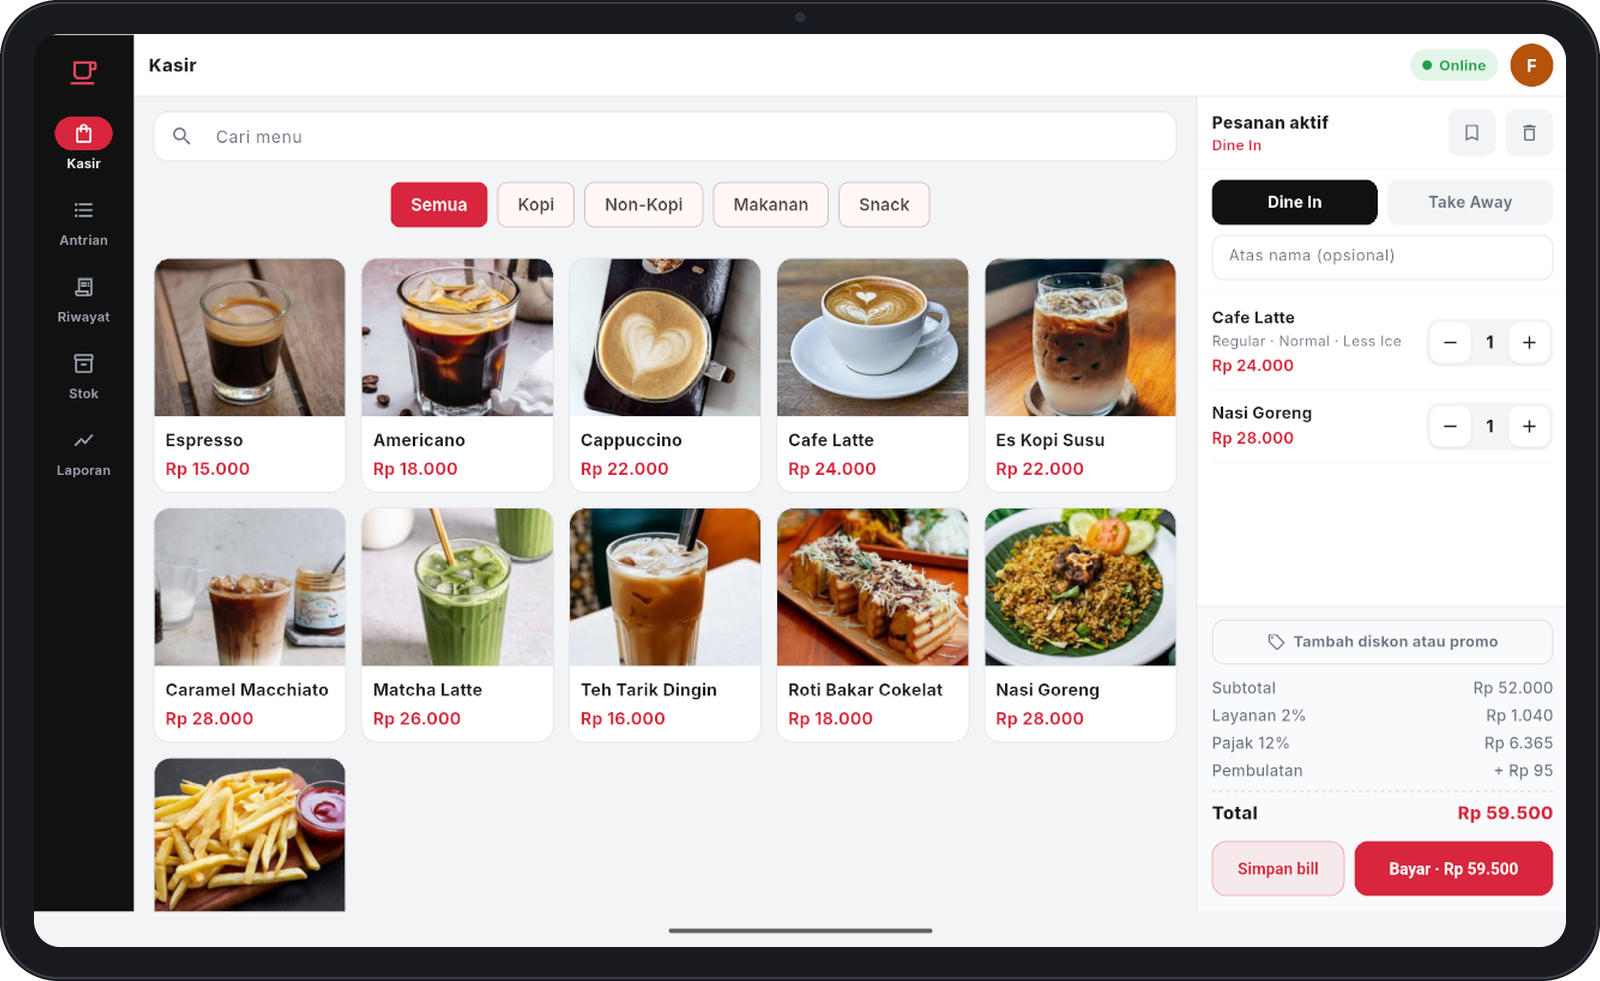
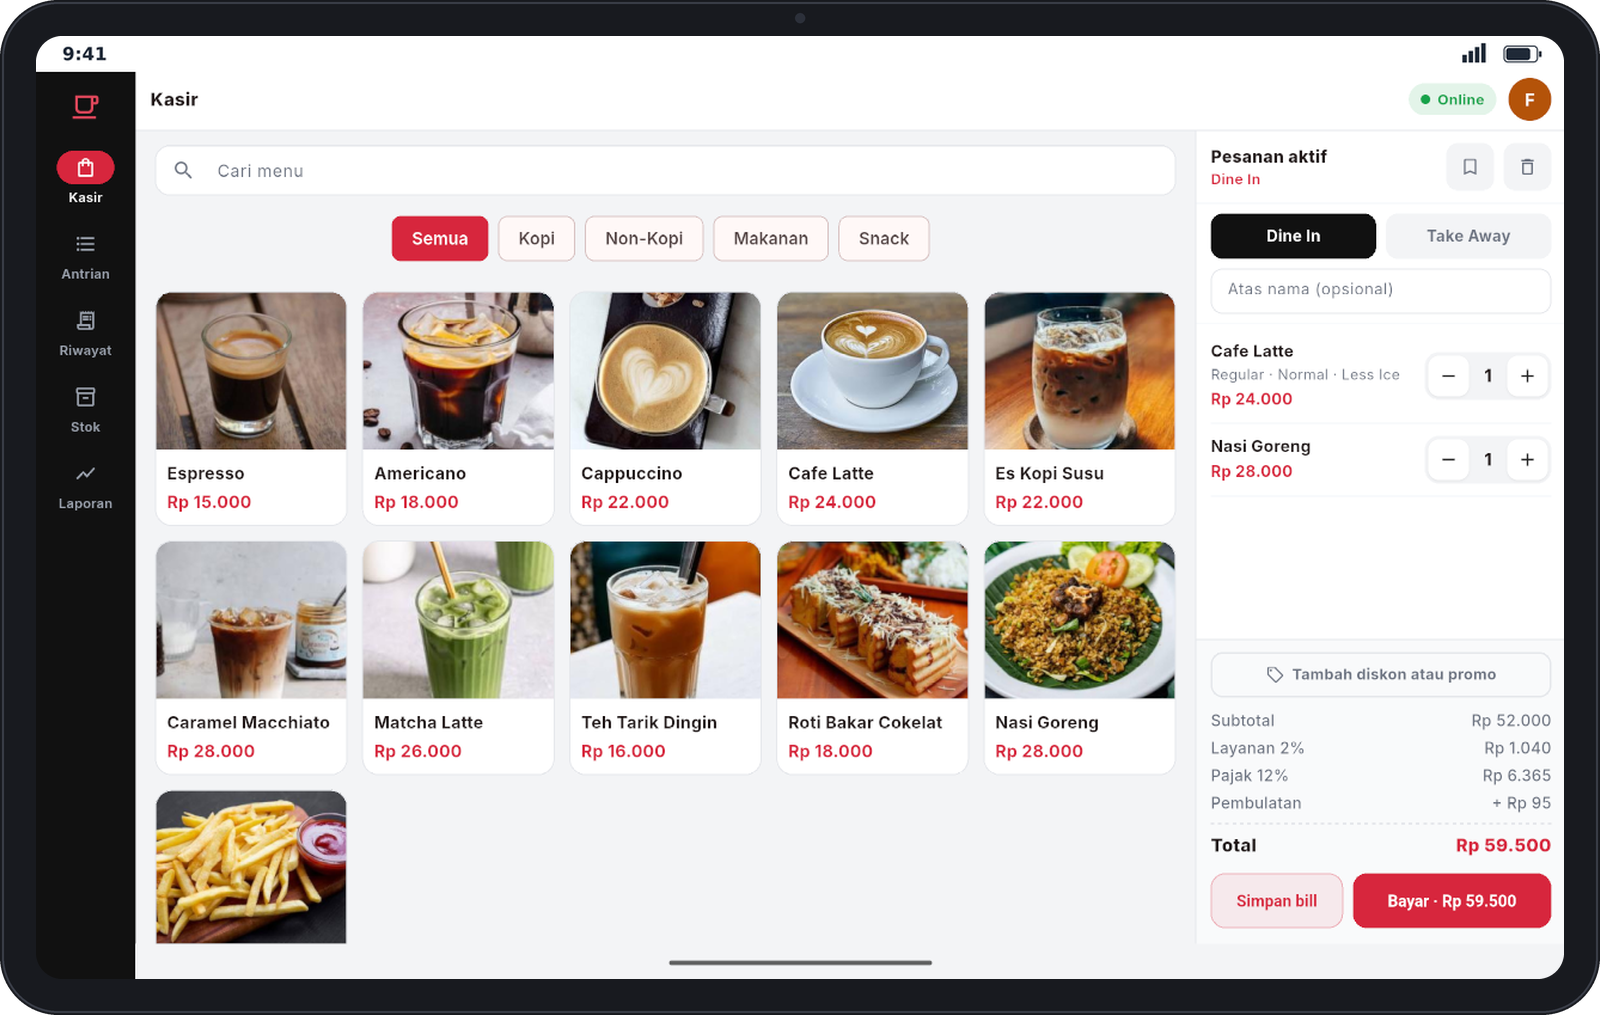
fix: Remove draft warning from legal page for clarity

diff --git a/resources/views/legal.blade.php b/resources/views/legal.blade.php
@@ -8,7 +8,6 @@
         .doc h1 { margin: 0 0 6px; font-size: 26px; }
         .doc h2 { font-size: 16px; margin: 24px 0 6px; }
         .doc p, .doc li { font-size: 15px; }
-        .draft { background: rgba(217,119,6,.12); border: 1px solid rgba(217,119,6,.4); color: #b45309; padding: 10px 14px; border-radius: 11px; font-size: 13.5px; margin-bottom: 18px; }
     </style>
 @endsection
 
@@ -16,7 +15,6 @@
     @php($email = config('jaya.contact_email'))
 
     <div class="doc">
-        <div class="draft"><b>Draf.</b> Teks ini adalah kerangka awal, bukan nasihat hukum. Tinjau dan sesuaikan dengan layananmu (dan konsultasikan bila perlu) sebelum dipublikasikan.</div>
 
         @if ($type === 'syarat')
             <h1>Syarat layanan</h1>
